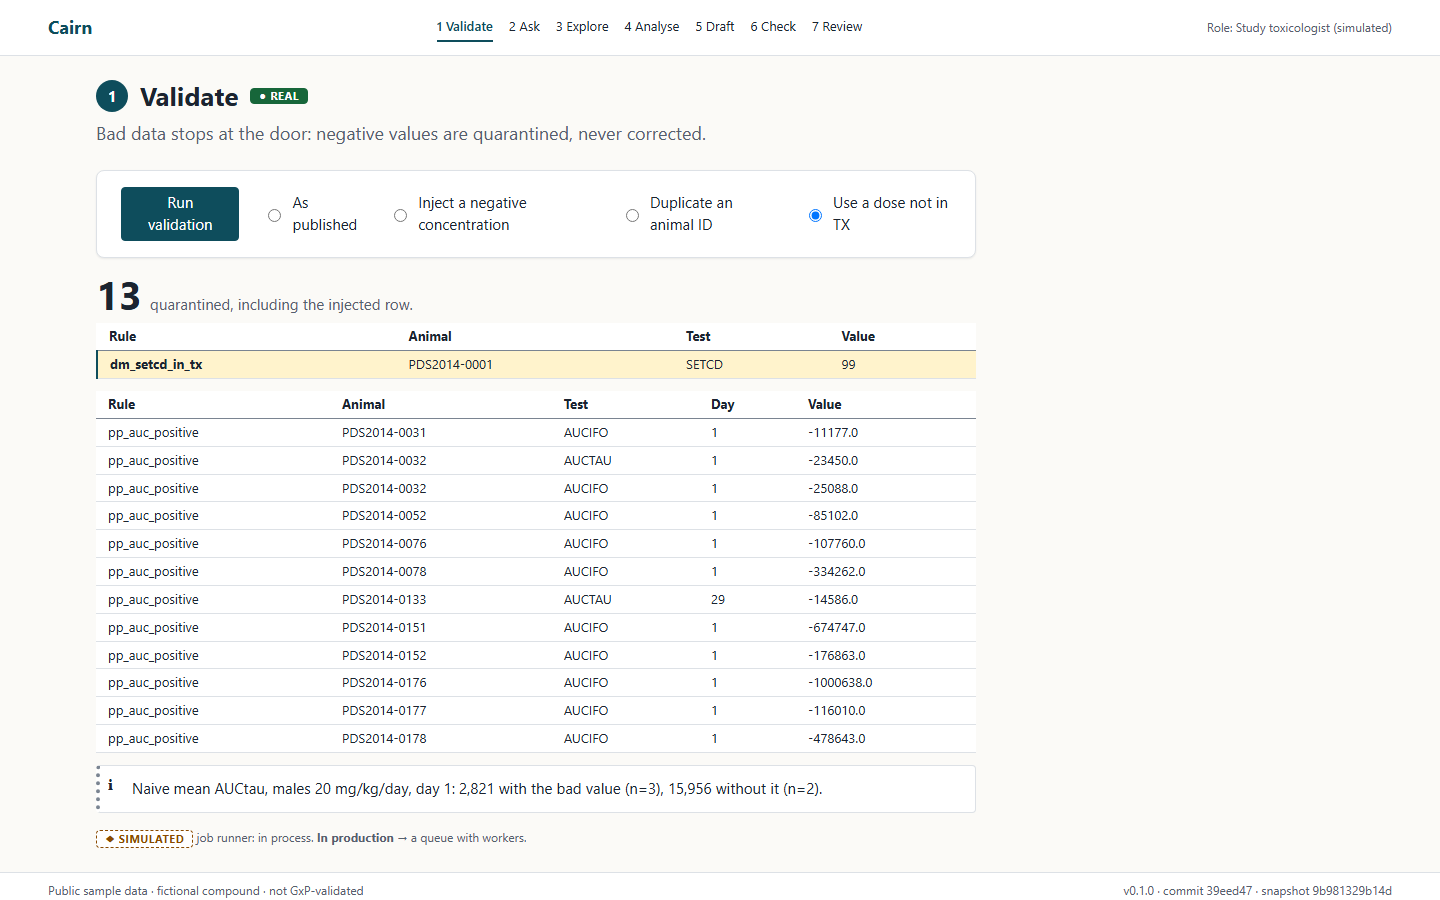
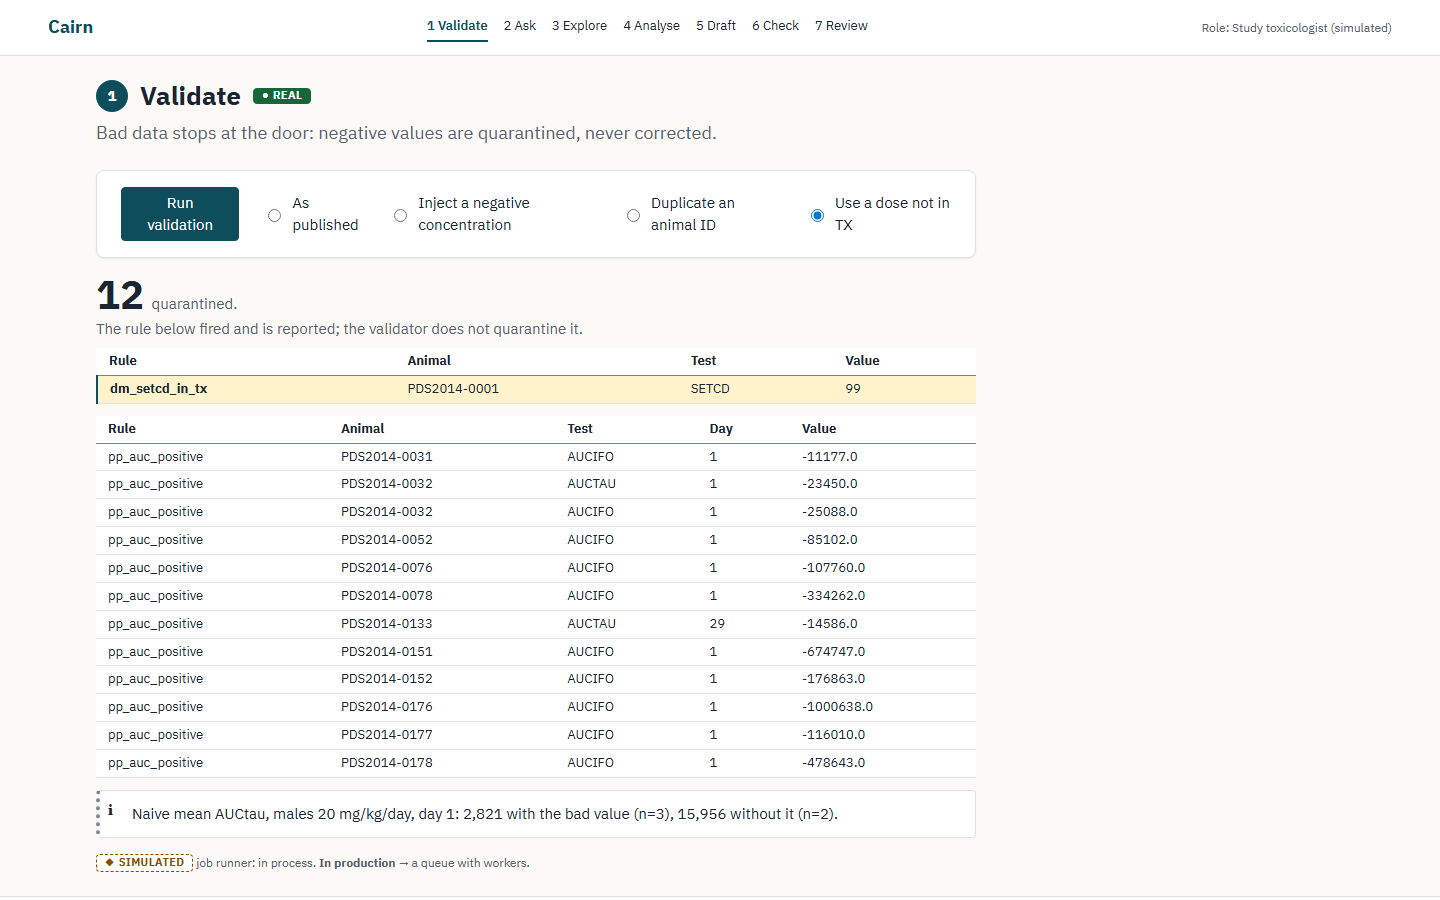
Fix round 1 review findings of phase 06

diff --git a/src/cairn/web/templates/step1_result.html b/src/cairn/web/templates/step1_result.html
@@ -1,5 +1,6 @@
 {% import "_components.html" as a %}
 <p class="figure"><strong>{{ r.total }}</strong> quarantined{% if r.injected %}, including the injected row{% endif %}.</p>
+{% if r.reported %}<p class="figure">The rule below fired and is reported; the validator does not quarantine it.</p>{% endif %}
 {% if r.fired %}
 {% set fired = namespace(rows=[]) %}
 {% for f in r.fired %}{% set fired.rows = fired.rows + [[f.rule, f.usubjid, f.test, f.value]] %}{% endfor %}

diff --git a/tests/test_explore_live.py b/tests/test_explore_live.py
@@ -12,6 +12,8 @@ from fastapi.testclient import TestClient
 
 from cairn import live, retrieval, tools
 from cairn.app import create_app
+from cairn.gateway import DEFAULT_MODEL
+from cairn.pricing import call_cost
 from cairn.web import explore_live
 
 LIVE_RUN = {
@@ -87,9 +89,14 @@ def test_explore_live_answers_with_real_badge_and_never_shows_the_code(live_box:
 
 
 def test_explore_live_shows_a_cut_or_a_failure_as_is(live_box: LiveFake) -> None:
-    live_box.replies = [{"stop_reason": "max_tokens", "content": [], "usage": {}}]
+    partial = LIVE_ANSWER["content"]
+    live_box.replies = [{"stop_reason": "max_tokens", "content": partial, "usage": {}}]
     page = ask_box("s3cret")
-    assert "cut off" in page and "<strong>No data" not in page
+    assert "cut off" in page and "No data." not in page
+    live_box.calls = 0
+    live_box.replies = [{"stop_reason": "refusal", "content": [], "usage": {}}]
+    declined = ask_box("s3cret")
+    assert "declined" in declined and "No data." not in declined
     live_box.replies = [TimeoutError("slow")]
     assert "The live call failed (TimeoutError)" in ask_box("s3cret")
 
@@ -192,3 +199,57 @@ def test_live_index_loads_the_reranker_once(monkeypatch: pytest.MonkeyPatch) -> 
 def test_live_cap_default_and_bad_value(monkeypatch: pytest.MonkeyPatch) -> None:
     monkeypatch.setenv("CAIRN_LIVE_CAP_USD", "oops")
     assert explore_live.daily_cap() == 2.0
+
+
+def test_live_cap_counts_the_spend_of_calls_made_before_a_failure(live_box: LiveFake) -> None:
+    live_box.replies = [LIVE_RUN, LIVE_RUN, TimeoutError("slow")]
+    ask_box("s3cret")
+    real = 2 * call_cost(DEFAULT_MODEL, 1000, 100)
+    assert explore_live.spent_today() == pytest.approx(real + live.call_ceiling(DEFAULT_MODEL))
+    assert live_box.calls == 3
+
+
+def test_live_cap_is_checked_again_once_the_lock_is_held(live_box: LiveFake) -> None:
+    class Lock:  # another question finishes and uses the budget while this one waits
+        def acquire(self, blocking: bool = True) -> bool:
+            explore_live._add_spend(5.0)
+            return True
+
+        def release(self) -> None:
+            pass
+
+    explore_live._busy = Lock()  # type: ignore[assignment]
+    try:
+        assert "daily live budget" in ask_box("s3cret")
+    finally:
+        explore_live._busy = threading.Lock()
+    assert live_box.calls == 0
+
+
+@pytest.mark.parametrize("value", ["nan", "inf", "-inf", "-1"])
+def test_live_cap_ignores_a_non_finite_or_negative_value(
+    monkeypatch: pytest.MonkeyPatch, value: str
+) -> None:
+    monkeypatch.setenv("CAIRN_LIVE_CAP_USD", value)
+    assert explore_live.daily_cap() == 2.0
+
+
+def test_live_question_reaches_the_search_tool_with_the_live_flag(
+    live_box: LiveFake, monkeypatch: pytest.MonkeyPatch
+) -> None:
+    seen: list[str] = []
+    guidance = retrieval.Guidance(
+        query="x", abstained=True, best_score=0.0, threshold=1.0, message="none", hits=[]
+    )
+
+    def fake_search(index: object, query: str) -> retrieval.Guidance:
+        seen.append(query)
+        return guidance
+
+    monkeypatch.setattr(tools, "_live_index", lambda: "index")
+    monkeypatch.setattr(retrieval, "search_guidance", fake_search)
+    monkeypatch.setenv("CAIRN_LLM_MODE", "replay")
+    search = {"type": "tool_use", "id": "s", "name": "search_guidance", "input": {"query": "x"}}
+    live_box.replies = [LIVE_RUN, {**LIVE_RUN, "content": [search]}, LIVE_ANSWER]
+    ask_box("s3cret")
+    assert seen == ["x"]

diff --git a/tests/test_web.py b/tests/test_web.py
@@ -9,6 +9,7 @@ from pathlib import Path
 import pytest
 from fastapi.testclient import TestClient
 
+from cairn import app as app_module
 from cairn.app import create_app
 from cairn.fetch import VENDORED_DIR
 from cairn.ingest import DEFAULT_DB, ingest
@@ -62,7 +63,11 @@ def test_step1_switches_fire_their_rule_without_touching_the_sources(tmp_path: P
         plain = client.post("/step/1/run", data={"switch": "none"}).text
         for switch, (rule, shown) in expected.items():
             result = client.post("/step/1/run", data={"switch": switch}).text
-            assert "<strong>13</strong> quarantined, including the injected row" in result
+            if switch == "negative":
+                assert "<strong>13</strong> quarantined, including the injected row" in result
+            else:  # the validator reports these rules and does not quarantine them
+                assert "<strong>12</strong> quarantined." in result
+                assert "does not quarantine it" in result and "injected row" not in result
             assert 'class="new"' in result and rule in result and shown in result
             assert all(other not in result for other, _ in expected.values() if other != rule)
             assert rule not in plain
@@ -637,9 +642,25 @@ def test_step7_closes_the_session_with_one_tool_over_mcp_and_rest() -> None:
         hashes = re.findall(r"<td>(?:MCP|REST)</td><td>([0-9a-f]{16})</td>", page)
         assert len(hashes) == 2 and hashes[0] == hashes[1]
         assert client.get("/docs").status_code == 200
-        assert client.get("/mcp").status_code < 500 and client.get("/pull/6").status_code == 404
+        assert client.get("/mcp").status_code < 500
         assert 'href="https://github.com/mikelju/cairn/pull/6"' in page
+        assert (
+            'href="https://github.com/mikelju/cairn/commit/7897d079c8665301821fe0e0faffdfd988b6ce82"'
+            in page
+        )
         assert 'href="/docs"' in page and 'href="/mcp"' in page
+
+
+def test_step7_rest_door_goes_through_the_http_route(monkeypatch: pytest.MonkeyPatch) -> None:
+    with TestClient(create_app(), follow_redirects=False) as client:
+        id_ = _filled_thread(client)
+        client.post("/step/4/confirm", data={"thread": id_, "actor": "R. Reviewer"})
+        monkeypatch.setattr(
+            app_module, "call_tool", lambda name, args: {"content_sha256": "x" * 64}
+        )
+        page = client.get(f"/step/7?thread={id_}").text
+    assert "The hashes differ." in page and "Same hash" not in page
+    assert "xxxxxxxxxxxxxxxx" in page
 
 
 def test_step6_says_where_the_chain_is_broken(

diff --git a/src/cairn/web/people.py b/src/cairn/web/people.py
@@ -4,6 +4,7 @@ import json
 import re
 from typing import Annotated, Any
 
+import httpx
 from fastapi import APIRouter, Form, HTTPException, Request
 from fastapi.responses import HTMLResponse, RedirectResponse, Response
 from fastmcp import Client
@@ -22,7 +23,6 @@ from cairn.judge import (
 )
 from cairn.recording import RECORDINGS_DIR, ReplayClient, recorded_model, total_cost
 from cairn.render import render
-from cairn.tools import call_tool
 from cairn.verify import RULE_REASONS
 from cairn.web import _page as page
 from cairn.web import templates
@@ -299,7 +299,10 @@ async def step6(request: Request, thread: str | None = None, actor: str = REVIEW
 
 REPO = "https://github.com/mikelju/cairn"
 STEP7_LINKS = [
-    ("Data-quality memo commit and its evals check", f"{REPO}/commits/main/workflows"),
+    (
+        "Data-quality memo commit (no .py files; its evals check is green on the phase PR)",
+        f"{REPO}/commit/7897d079c8665301821fe0e0faffdfd988b6ce82",
+    ),
     ("Blocked bad PR", f"{REPO}/pull/6"),
     ("REST docs", "/docs"),
     ("MCP endpoint", "/mcp"),
@@ -313,10 +316,17 @@ PRODUCTION = [
 
 
 async def _two_doors(request: Request) -> tuple[str, str]:
-    """The same tool called over MCP and over REST: the content hash of each Observation."""
+    """The same tool called over MCP and over REST: the content hash of each Observation.
+
+    REST goes through the app's own HTTP route, in process, so a broken route shows as a failure.
+    """
     async with Client(request.app.state.mcp) as client:
         over_mcp = (await client.call_tool("study_design", {})).structured_content or {}
-    return str(over_mcp["content_sha256"]), str(call_tool("study_design", {})["content_sha256"])
+    transport = httpx.ASGITransport(app=request.app)
+    async with httpx.AsyncClient(transport=transport, base_url="http://cairn") as http:
+        reply = await http.post("/api/tools/study_design", json={})
+    over_rest = reply.json().get("content_sha256") if reply.status_code == 200 else None
+    return str(over_mcp["content_sha256"]), str(over_rest or f"HTTP {reply.status_code}")
 
 
 @people.get("/step/7", response_class=HTMLResponse)

diff --git a/src/cairn/web/explore_live.py b/src/cairn/web/explore_live.py
@@ -5,6 +5,7 @@ Without the code, with a wrong code, over the length limit or at the cap it make
 """
 
 import hmac
+import math
 import os
 import threading
 from datetime import UTC, date, datetime
@@ -34,9 +35,10 @@ def utc_today() -> date:
 
 def daily_cap() -> float:
     try:
-        return float(os.environ.get("CAIRN_LIVE_CAP_USD", DEFAULT_CAP_USD))
+        cap = float(os.environ.get("CAIRN_LIVE_CAP_USD", DEFAULT_CAP_USD))
     except ValueError:
         return DEFAULT_CAP_USD
+    return cap if math.isfinite(cap) and cap >= 0 else DEFAULT_CAP_USD
 
 
 def code_ok(code: str) -> bool:
@@ -77,11 +79,15 @@ def explore_ask_live(
     if not _busy.acquire(blocking=False):
         return _refused(request, "Another live question is running. Try again in a minute.")
     try:
+        if spent_today() >= daily_cap():  # a question that just finished may have used it up
+            return _refused(request, "The daily live budget is used up. Try a recorded question.")
+        gateway: live.SpendGateway | None = None
         token = LIVE_SEARCH.set(True)
         try:
-            result = live.ask_live(question, DEFAULT_MODEL)
-        except Exception as error:  # a timeout or a Bedrock error: count a call at its ceiling
-            _add_spend(live.call_ceiling(DEFAULT_MODEL))
+            gateway = live.spend_gateway()
+            result = live.ask_live(question, DEFAULT_MODEL, gateway)
+        except Exception as error:  # a timeout or a Bedrock error: count what the calls cost
+            _add_spend(gateway.spent if gateway else 0.0)
             return _refused(request, f"The live call failed ({type(error).__name__}).")
         finally:
             LIVE_SEARCH.reset(token)

diff --git a/src/cairn/web/__init__.py b/src/cairn/web/__init__.py
@@ -80,7 +80,8 @@ def _result(
     extra = extra or []
     return {
         "injected": injected,
-        "total": report["quarantine"]["total"] + len(extra),
+        "reported": bool(extra),
+        "total": report["quarantine"]["total"],
         "rows": [r for r in rows if r["rule"] == RULE_AUC],
         "fired": [r for r in rows if r["rule"] == RULE_CONC] + extra,
         "with_bad": _number(naive["with_quarantined"]["mean"]),
@@ -169,10 +170,9 @@ async def step1(request: Request) -> HTMLResponse:
 @router.post("/step/1/run", response_class=HTMLResponse)
 async def step1_run(request: Request, switch: Annotated[str, Form()] = "none") -> HTMLResponse:
     extra: list[dict[str, Any]] = []
-    injected = switch != "none"
     if switch not in (*SWITCHES, "none"):
         raise HTTPException(status_code=422, detail="unknown switch")
-    if injected:
+    if switch != "none":
         report, extra = _revalidate(switch)
     else:
         runner: JobRunner = request.app.state.runner
@@ -180,7 +180,7 @@ async def step1_run(request: Request, switch: Annotated[str, Form()] = "none") -
         await runner.tasks[job.job_id]
         report = (runner.jobs[job.job_id].outputs or {})["report"]
     return templates.TemplateResponse(
-        request, "step1_result.html", {"r": _result(report, injected, extra)}
+        request, "step1_result.html", {"r": _result(report, switch == "negative", extra)}
     )
 
 

diff --git a/src/cairn/live.py b/src/cairn/live.py
@@ -108,8 +108,27 @@ def ask_replay(question_id: str, directory: Path, model: str) -> LoopResult:
     return ask(QUESTIONS[question_id], LLMGateway(Mode.REPLAY, client=client), model)
 
 
-def ask_live(text: str, model: str) -> LoopResult:
-    return ask(text, LLMGateway(Mode.LIVE, client=make_client(Mode.LIVE)), model)
+class SpendGateway(LLMGateway):
+    """A live gateway that tallies its spend: real cost per call, the ceiling for a failed one."""
+
+    spent = 0.0
+
+    def create(self, model: str, *args: Any, **kwargs: Any) -> Any:
+        try:
+            reply = super().create(model, *args, **kwargs)
+        except Exception:
+            self.spent += call_ceiling(model)
+            raise
+        self.spent += call_cost(model, reply.input_tokens, reply.output_tokens)
+        return reply
+
+
+def spend_gateway() -> SpendGateway:
+    return SpendGateway(Mode.LIVE, client=make_client(Mode.LIVE))
+
+
+def ask_live(text: str, model: str, gateway: LLMGateway | None = None) -> LoopResult:
+    return ask(text, gateway or spend_gateway(), model)
 
 
 # Outcomes worth keeping as a recording; a truncated, capped or failed run is not saved.

diff --git a/src/cairn/workflow.py b/src/cairn/workflow.py
@@ -71,6 +71,10 @@ class Workflow(BaseModel):
     quality_note: QualityNote | None = None
 
     def validate_content(self) -> None:
+        if not self.steps:
+            raise ValueError("steps is empty; a workflow needs at least one step")
+        if repeated := [step for step in dict.fromkeys(self.steps) if self.steps.count(step) > 1]:
+            raise ValueError(f"step {repeated[0]} appears more than once")
         if unknown := [step for step in self.steps if step not in STEPS]:
             raise ValueError(f"unknown step {unknown[0]}; known steps: {', '.join(STEPS)}")
         if unknown := [step for step in self.pauses if step not in self.steps]:
@@ -101,10 +105,8 @@ def load_workflow(name: str, directory: Path = WORKFLOWS_DIR) -> Workflow:
 
 
 NONCLINICAL_SUMMARY = load_workflow("nonclinical-summary")
-DRAFT_ID = NONCLINICAL_SUMMARY.recording
 DRAFT_PROMPT_VERSION = NONCLINICAL_SUMMARY.prompt_version
 SECTIONS = tuple(NONCLINICAL_SUMMARY.sections)
-TK_OBS = "O5"
 
 
 # The draft schema: like the question loop's, but a part may also point to a decision slot.

diff --git a/tests/test_workflow_config.py b/tests/test_workflow_config.py
@@ -1,5 +1,6 @@
 """Workflow YAML loading: the shipped files load, and a bad file is rejected with a clear error."""
 
+import re
 from pathlib import Path
 
 import pytest
@@ -22,6 +23,16 @@ def test_workflow_config_nonclinical_summary_loads_as_before() -> None:
         (GOOD.replace("tool: incidence", "tool: guess"), "unknown tool guess"),
         (GOOD.replace("name: nonclinical-summary\n", ""), "name"),
         (GOOD.replace("pauses: [await_decisions", "pauses: [nowhere, await_decisions"), "nowhere"),
+        (
+            GOOD.replace("[gather, draft", "[gather, gather, draft", 1),
+            "gather appears more than once",
+        ),
+        (
+            re.sub(r"^steps: .*$", "steps: []", GOOD, flags=re.M).replace(
+                "pauses: [await_decisions, await_approval]", "pauses: []"
+            ),
+            "steps is empty",
+        ),
         ("name: [unclosed", "nonclinical-summary.yaml"),
     ],
 )

diff --git a/src/cairn/tools.py b/src/cairn/tools.py
@@ -87,7 +87,7 @@ def search_guidance(query: str) -> dict[str, Any]:
 
     if mode_from_env() is Mode.REPLAY and not LIVE_SEARCH.get():
         guidance = retrieval.cached_guidance(query)
-    else:  # pragma: no cover - needs the weights
+    else:
         guidance = retrieval.search_guidance(_live_index(), query)
     result = guidance.model_dump(mode="json")
     passages = stored_passages()

diff --git a/docs/plans/fase-06-live-delivery/plan.md b/docs/plans/fase-06-live-delivery/plan.md
@@ -41,6 +41,7 @@ Kept by the supervisor. Statuses: in progress, blocked, needs decision, done, fa
 | E188 | ejecutor (Sonnet) | Increment 3: full check confirmation | done | `npm run check` green: 684 passed, 1 skipped, 97.07% coverage |
 | E189 | ejecutor (Sonnet) | Increment 5, docs: README, ADR-002, production, make changelog | done | README, ADR-002, production.md and `make changelog` (CHANGELOG.md generated from 11 merged PRs); commit 5dacc9e confirmed by the full `npm run check` of E190 (686 passed, 97.07% coverage) |
 | E190 | ejecutor (Sonnet) | Increment 4 record: memo recording, live evidence, full check | done | `npm run check` green on the committed tree: 686 passed, 97.07% coverage, `npm ls` and hooks tests; memo.json a1b76ec; `make demo-offline-check` of the clean clone pending |
+| E191 | ejecutor (Sonnet) | Round 1 review fixes | done | 12 findings fixed with regression tests; unfixed ones logged in Adversarial review; full `npm run check` green |
 
 ## User decisions
 Questions the supervisor raises to the user. Statuses: open, answered, deferred; closed with the literal answer.
@@ -56,6 +57,7 @@ Questions the supervisor raises to the user. Statuses: open, answered, deferred;
 ## Adversarial review
 | Round | Backend | Range | Lenses | Findings | Status |
 |---|---|---|---|---|---|
+| 1 | opus | `main...5dacc9e` | correctness, security and data, evidence and tests, scope | 12 confirmed, fixed in E191: partial live spend lost on failure, cap checked outside the lock, `nan`/`inf`/negative cap, REST door not over HTTP, step 7 memo link, empty or repeated workflow steps, step 1 false quarantine and "injected row" text, dead constants, untested live search and truncated/refusal paths, `make deploy` env, ADR-002 and production claims, no attempt limit (SEC-006). Recorded, not fixed: fixed `write_draft` description (changing it invalidates the W2 recording), no total time limit per question (6 x 45 s), repeated "DRAFT" literal, cost/latency computed in step 5 and step 7, sh quotes in `make changelog`, `VIDEO_URL` pending until the video, CHANGELOG generated before the merge (the user regenerates it with `make changelog` in its own PR after merging and before the tag), no test that the code is not logged (there is no logging), no security scanners installed | fixed, awaiting check |
 
 ## Results
 Per criterion: command or walkthrough run, observed result and reference to the evidence.

diff --git a/docs/security.md b/docs/security.md
@@ -7,3 +7,4 @@
 | SEC-003 | Low | `src/cairn/retrieval.py` lazy reranker load and `src/cairn/tools.py` `_live_index` (record and live modes) | Concurrent first requests in live mode each build the index and load the 0.57 GB reranker without a lock, and the query has no length limit; peak memory can take the container down. The deployed container runs replay, so this is not reachable today. | Fixed in phase 06: a lock around the lazy index build (`tools._live_index`) and around the lazy reranker load (`Index.rerank`), and a 500-character limit on the live question checked before any model or retrieval call. Regressions: `tests/test_explore_live.py::test_live_index_*`, `test_explore_live_refuses_*`. | Phase 03 (R101) |
 | SEC-004 | Low | `Makefile` `deploy` with `SKIP_BUILD=1` and `.github/workflows/image.yml` | The deploy pushes whatever local image is tagged `cairn`; nothing ties it to the workflow artifact by digest, so an older or local build can be deployed by mistake (the footer commit shows it, but nothing blocks it). | Open; operator check of the footer commit after each deploy. | Phase 03 (R101) |
 | SEC-005 | Low | `.github/workflows/*.yml` actions and `Dockerfile` base images | Actions and base images are pinned by mutable tag, not by SHA or digest; a rewritten upstream tag would run foreign code with `contents: read` and could alter the image artifact. | Open; supply-chain hardening, same pattern as before phase 03. | Phase 03 (R101) |
+| SEC-006 | Low | `POST /explore/live` | The access code has no attempt limit, so it can be guessed by repeated requests. | Open; bounded by the daily cap (2 USD per UTC day) and one question at a time, so a guessed code costs at most the cap. Production: per-user sign-in, a rate limit and lockout on failed codes, a long random code. | Phase 06 (R1) |
